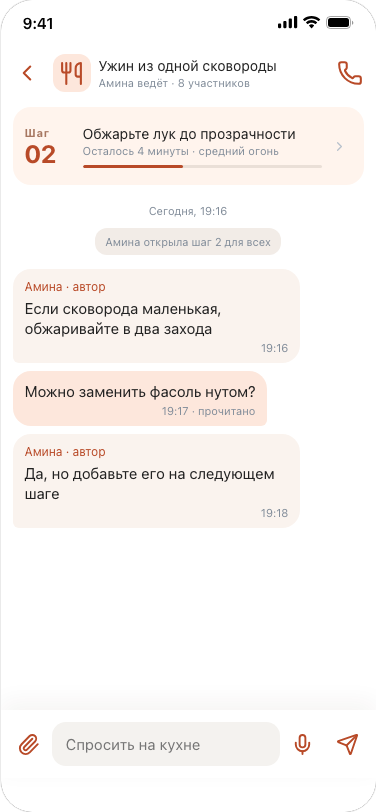
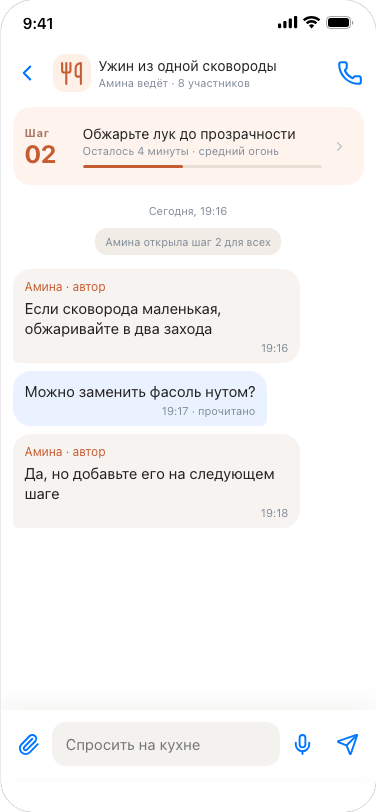
Restore VK blue in Podacha messaging

diff --git a/platform/concepts/podacha/styles.css b/platform/concepts/podacha/styles.css
@@ -1944,9 +1944,11 @@
 
 /* Messenger — a live kitchen, composed from Podacha's native controls. */
 .p-messenger {
-  --p-chat-accent: #b84a28;
-  --p-chat-accent-soft: #fde7dc;
-  --p-chat-surface: #faf3ee;
+  --p-chat-accent: #0077ff;
+  --p-chat-accent-soft: #eaf2ff;
+  --p-chat-food: #c65d32;
+  --p-chat-food-soft: #fff0e7;
+  --p-chat-surface: #f7f3f0;
   background: #fff;
 }
 .p-messenger .p-inbox-top { border-bottom: 0; }
@@ -1962,7 +1964,7 @@
 .p-messenger .p-chat-row.is-live { min-height: 88px; background: #fff; box-shadow: 0 5px 20px rgba(119,75,43,.08); }
 .p-messenger .p-chat-row em i { background: var(--p-chat-accent); }
 .p-messenger .p-chat-avatar { width: 52px; height: 52px; }
-.p-messenger .p-chat-avatar.kitchen { position: relative; border-radius: 16px; background: var(--p-chat-accent-soft); color: var(--p-chat-accent); }
+.p-messenger .p-chat-avatar.kitchen { position: relative; border-radius: 16px; background: var(--p-chat-food-soft); color: var(--p-chat-food); }
 .p-messenger .p-chat-avatar.kitchen > i { position: absolute; right: 3px; bottom: 3px; width: 10px; height: 10px; border: 2px solid #fff; border-radius: 50%; background: #35c759; }
 .p-messenger .p-chat-avatar .ico-svg { width: 25px; height: 25px; }
 .p-messenger .p-chat-row > span:nth-child(2) { gap: 1px; }
@@ -1981,18 +1983,18 @@
 .p-messenger .p-chat-person small { font-size: 11px; line-height: 15px; }
 .p-messenger .p-messages { padding: 8px 12px 94px; background: #fff; }
 .p-messenger .p-context-card { min-height: 78px; grid-template-columns: 48px minmax(0,1fr) 20px; gap: 10px; padding: 10px 12px; border-radius: 18px; background: #fff4ed; }
-.p-messenger .p-step { display: flex; flex-direction: column; color: var(--p-chat-accent); font-size: 25px; line-height: 26px; }
+.p-messenger .p-step { display: flex; flex-direction: column; color: var(--p-chat-food); font-size: 25px; line-height: 26px; }
 .p-messenger .p-step small { color: #a77761; font-size: 9px; line-height: 12px; letter-spacing: .06em; }
 .p-messenger .p-context-card b { font-size: 14px; line-height: 19px; }
 .p-messenger .p-context-card small { font-size: 11px; line-height: 16px; }
 .p-context-progress { width: 100%; height: 3px; margin-top: 6px; overflow: hidden; display: block; border-radius: 2px; background: #eadfd7; }
-.p-context-progress span { width: 42%; height: 100%; display: block; border-radius: inherit; background: var(--p-chat-accent); }
+.p-context-progress span { width: 42%; height: 100%; display: block; border-radius: inherit; background: var(--p-chat-food); }
 .p-messenger .p-chat-day { margin: 18px auto 10px; }
 .p-messenger .p-system-message { margin: 8px auto 14px; padding: 6px 10px; border-radius: 12px; background: #f2ece7; font-size: 11px; }
 .p-messenger .p-bubble { max-width: 82%; margin: 8px 0; padding: 10px 12px 8px; gap: 3px; border-radius: 18px; background: var(--p-chat-surface); font-size: 15px; line-height: 20px; }
 .p-messenger .p-bubble.incoming { border-bottom-left-radius: 6px; }
 .p-messenger .p-bubble.outgoing { border-bottom-right-radius: 6px; background: var(--p-chat-accent-soft); }
-.p-messenger .p-bubble b { color: var(--p-chat-accent); font-size: 12px; line-height: 16px; }
+.p-messenger .p-bubble b { color: var(--p-chat-food); font-size: 12px; line-height: 16px; }
 .p-messenger .p-bubble time { font-size: 11px; line-height: 14px; }
 .p-messenger .p-composer { min-height: 68px; padding: 8px 6px; grid-template-columns: 44px minmax(0,1fr) 44px 44px; gap: 1px; background: #fff; box-shadow: 0 -8px 24px rgba(55,39,28,.05); }
 .p-messenger .p-composer button { border-radius: 12px; color: var(--p-chat-accent); }
